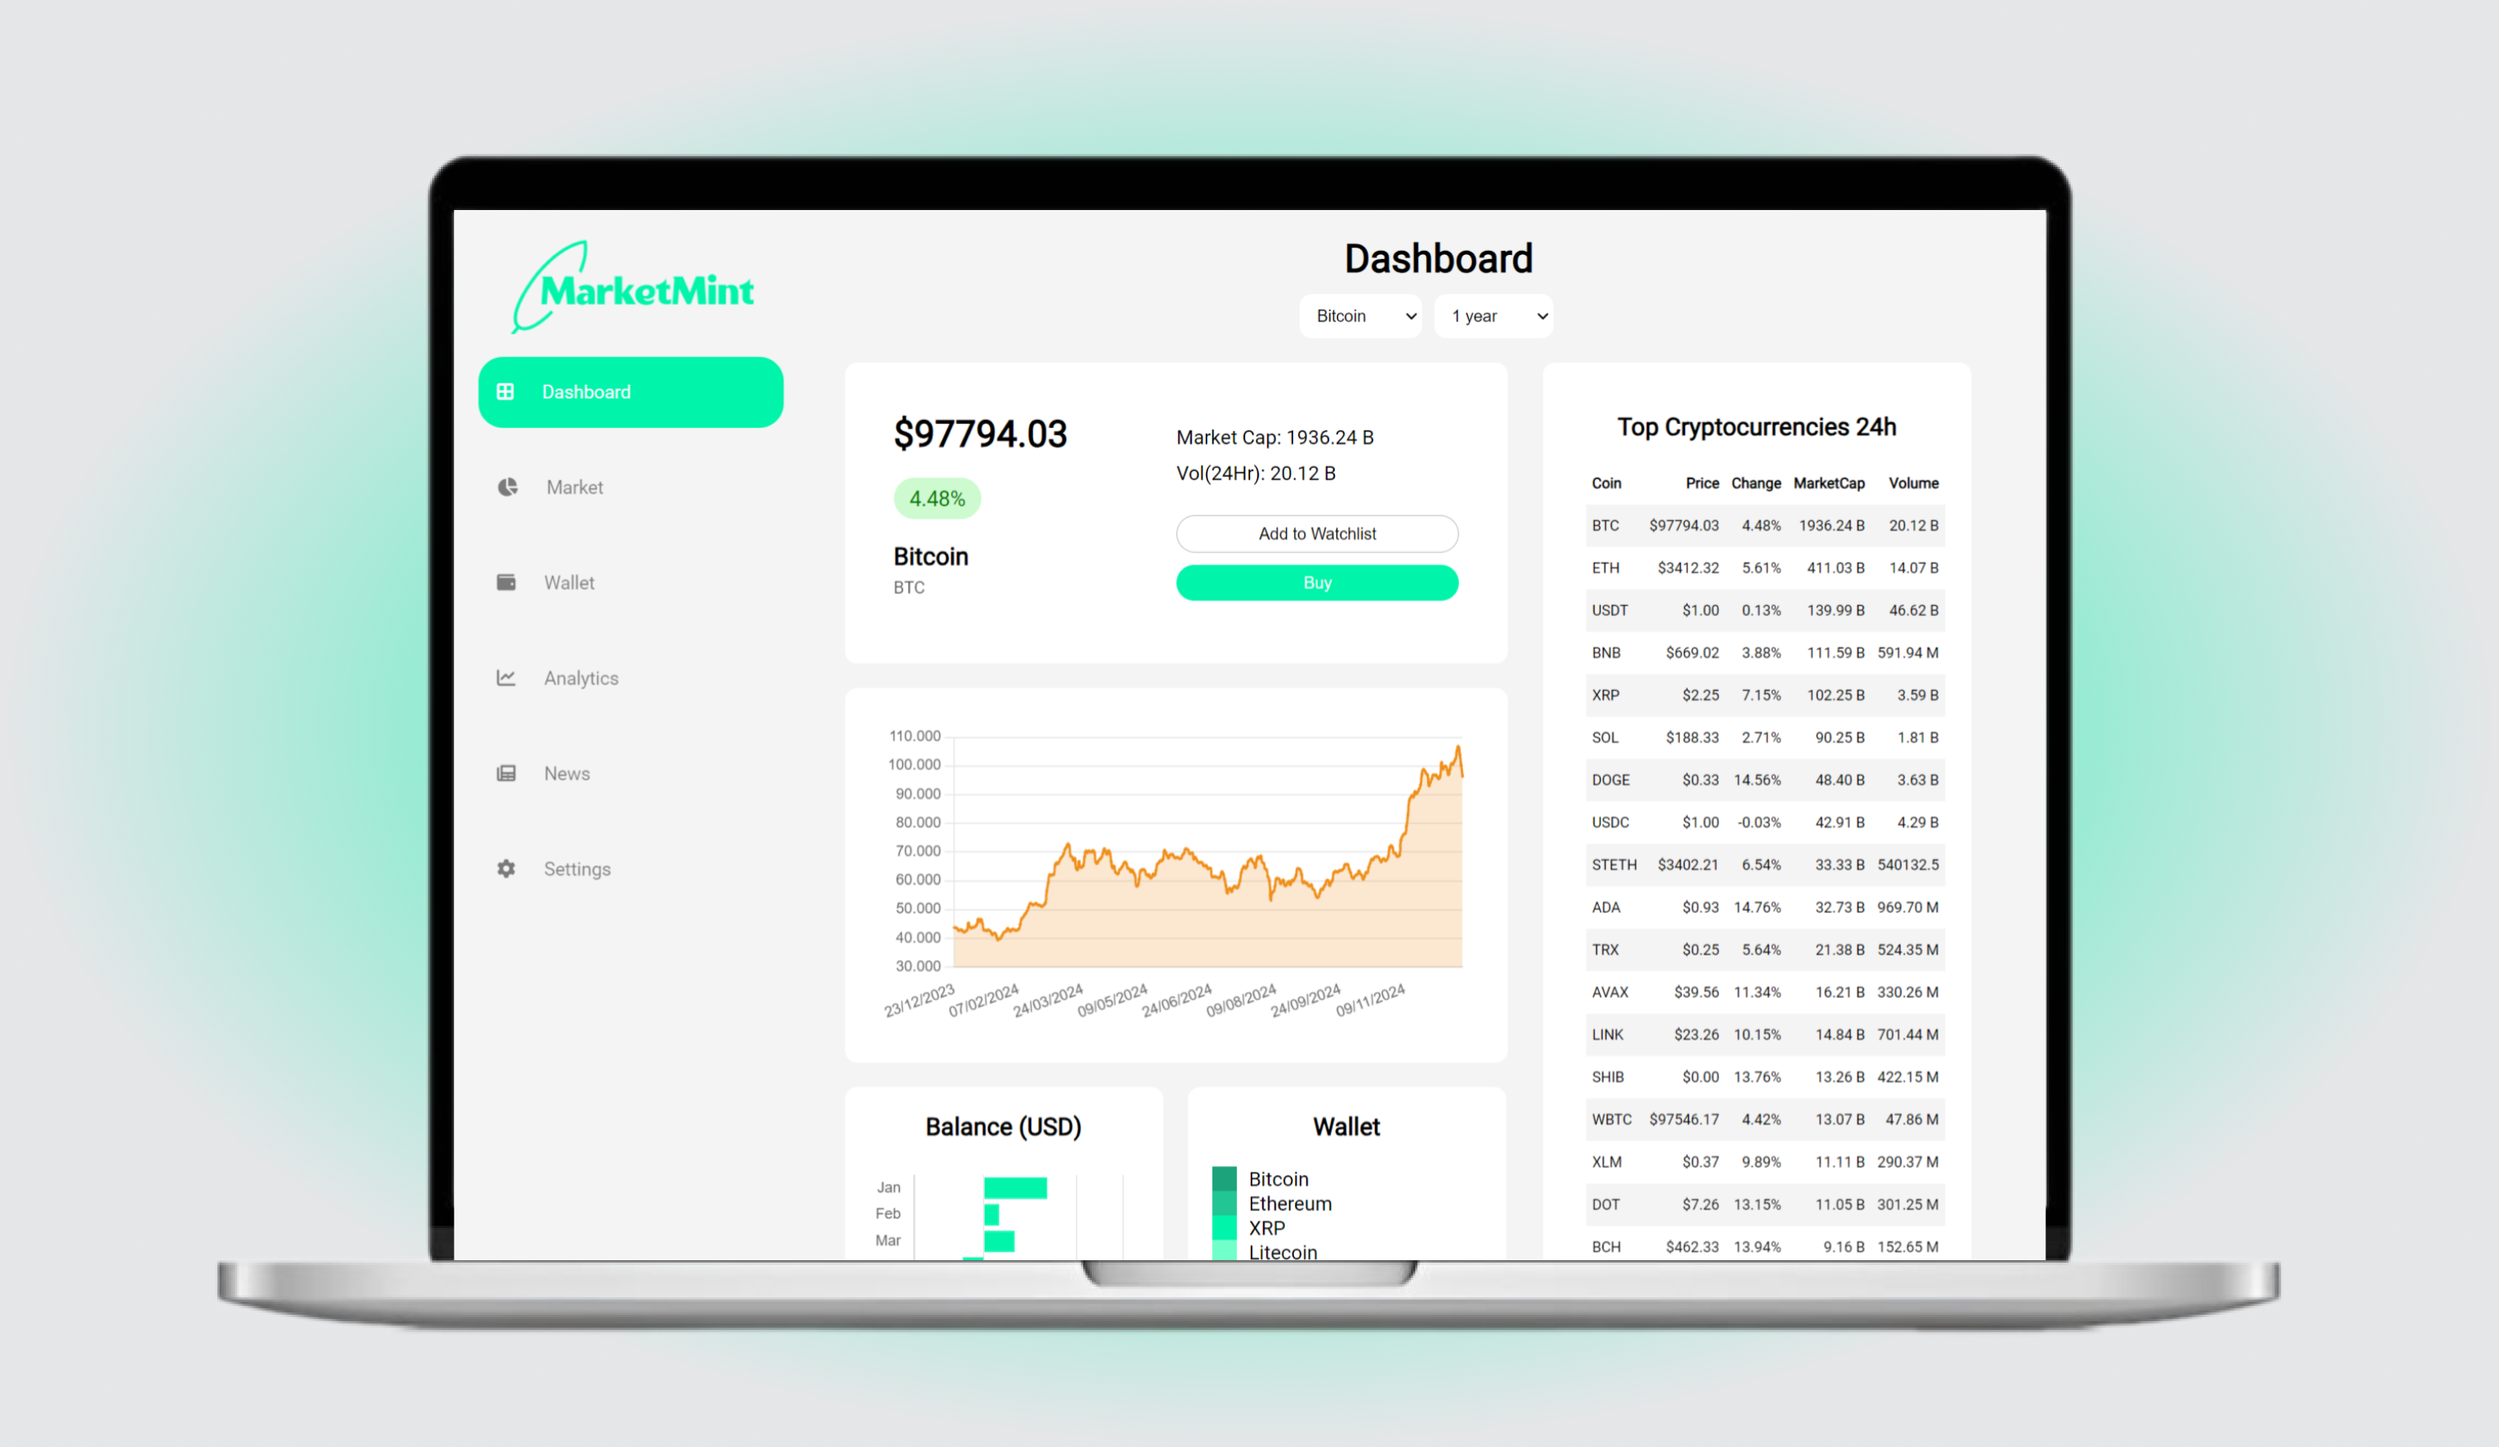
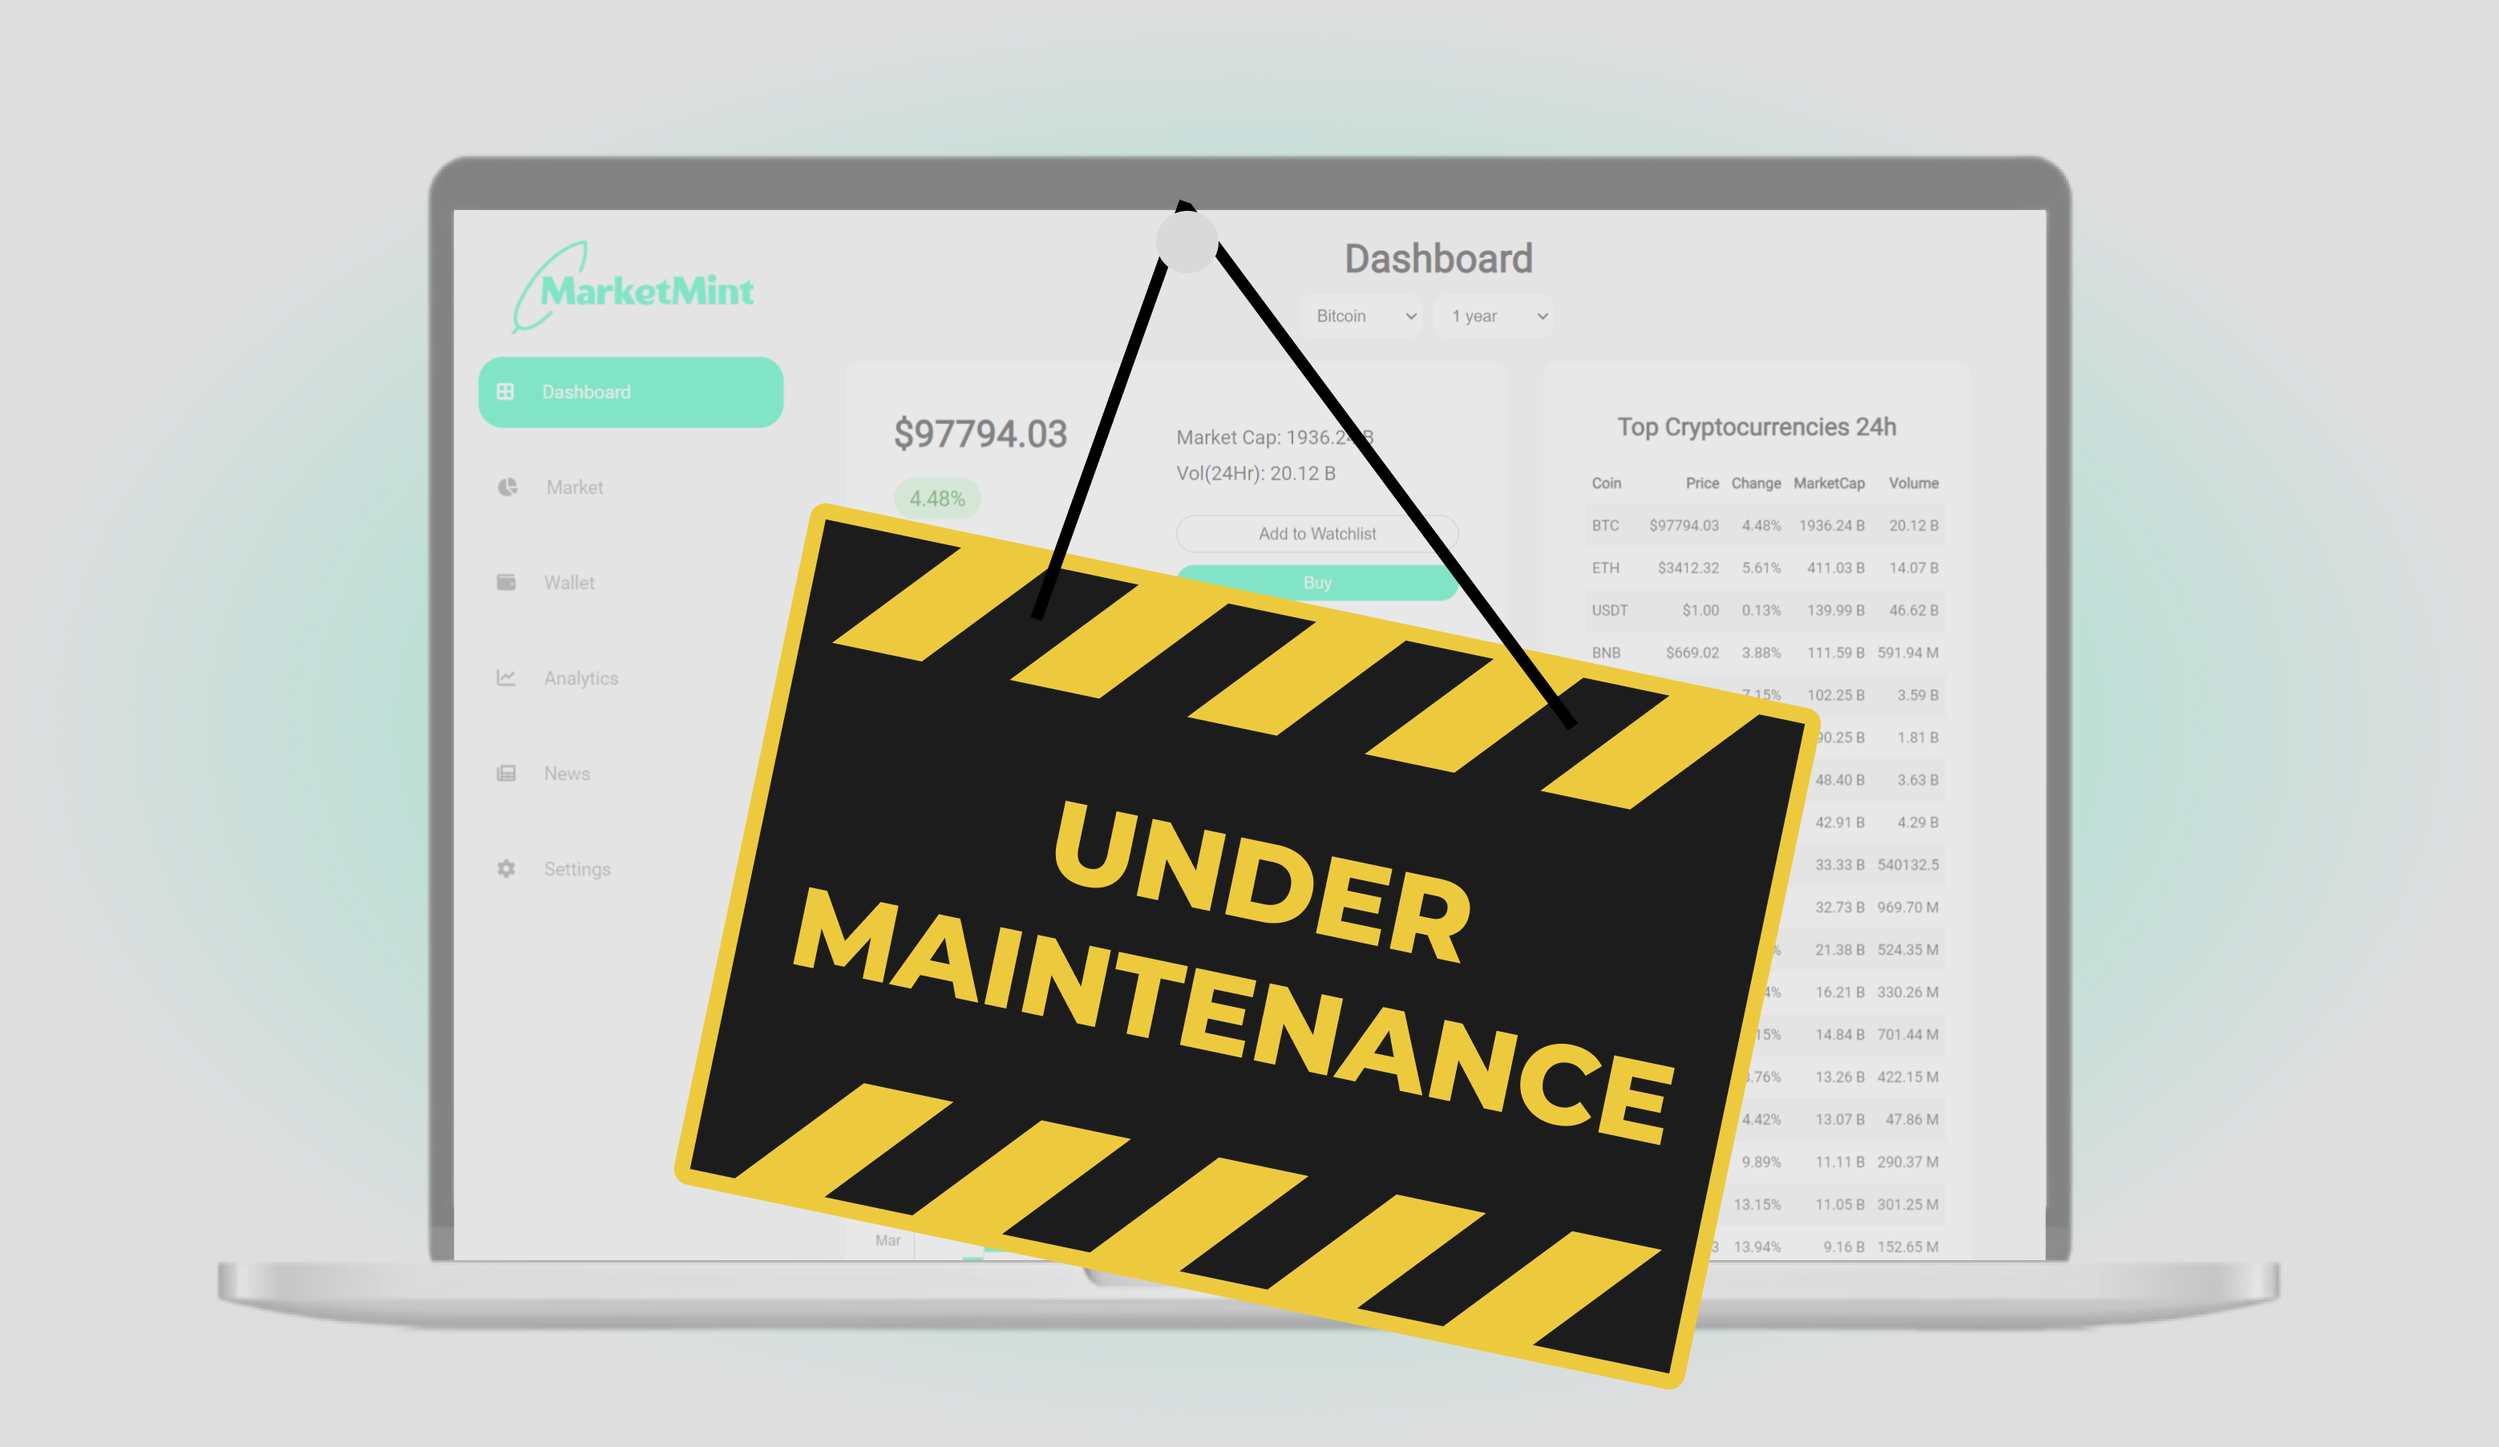
Put marketmint under maintenance

diff --git a/portfolio.html b/portfolio.html
@@ -75,7 +75,7 @@
                         <img src="project_banners/banner-statpilot.png" alt="statpilot web app">
                         <div class="text2">
                             <h4>StatPilot</h4>
-                            <p>Interactive web application for statistical data analysis, machine learning modeling, and model explainability</p>
+                            <p>Web app interattiva per analisi statistica dei dati, addestramento di modelli di machine learning, e spiegazione dei modelli</p>
                         </div>
                         <div class="buttons">
                             <a href="https://statpilot.onrender.com/" class="btn orange" target="_blank">Vai al Progetto</a>
@@ -91,17 +91,6 @@
                         <div class="buttons">
                             <a href="https://blacklistedm3dia.com/it" class="btn orange" target="_blank">Vai al Sito</a>
                             <a href="readme/visual-readme_bm.html" target="_blank" class="readme"><i class="fa-solid fa-bookmark fa-sm" style="color: #271b46;"></i> <span>README</span></a>
-                        </div>
-                    </div>
-                    <div class="work">
-                        <img src="project_banners/banner-crypto.png" alt="cryptocurrency dashboard">
-                        <div class="text2">
-                            <h4>MarketMint Dashboard Criptovalute</h4>
-                            <p>Piattaforma dinamica per tracciare i trend delle criptovalute e insights del mercato in tempo reale</p>
-                        </div>
-                        <div class="buttons">
-                            <a href="https://marketmint.netlify.app/" class="btn orange" target="_blank">Vai al Progetto</a>
-                            <a href="readme/README_crypto.md" target="_blank" class="readme"><i class="fa-solid fa-bookmark fa-sm" style="color: #271b46;"></i> <span>README</span></a>
                         </div>
                     </div>
                     <div class="work">
@@ -168,6 +157,17 @@
                         <div class="buttons">
                             <a href="https://savetheshark.netlify.app/" class="btn orange" target="_blank">Vai al Progetto</a>
                             <a href="readme/README_sts.md" target="_blank" class="readme"><i class="fa-solid fa-bookmark fa-sm" style="color: #271b46;"></i> <span>README</span></a>
+                        </div>
+                    </div>
+                    <div class="work">
+                        <img src="project_banners/banner-crypto.png" alt="cryptocurrency dashboard">
+                        <div class="text2">
+                            <h4>MarketMint Dashboard Criptovalute </h4>
+                            <p>Piattaforma dinamica per tracciare i trend delle criptovalute e insights del mercato in tempo reale (in manutenzione)</p>
+                        </div>
+                        <div class="buttons">
+                            <a href="#" class="btn orange" target="_blank">Vai al Progetto</a>
+                            <a href="readme/README_crypto.md" target="_blank" class="readme"><i class="fa-solid fa-bookmark fa-sm" style="color: #271b46;"></i> <span>README</span></a>
                         </div>
                     </div>
                 </div>

diff --git a/portfolio-en.html b/portfolio-en.html
@@ -96,17 +96,6 @@
                             </div>
                         </div>
                         <div class="work">
-                            <img src="project_banners/banner-crypto.png" alt="cryptocurrency dashboard">
-                            <div class="text2">
-                                <h4>MarketMint Cryptocurrency Dashboard</h4>
-                                <p>Dynamic platform for tracking cryptocurrency trends and market insights in real time</p>
-                            </div>
-                            <div class="buttons">
-                                <a href="https://marketmint.netlify.app/" class="btn orange" target="_blank">View Project</a>
-                                <a href="readme/README_crypto.md" target="_blank" class="readme"><i class="fa-solid fa-bookmark fa-sm" style="color: #271b46;"></i> <span>README</span></a>
-                            </div>
-                        </div>
-                        <div class="work">
                             <img src="project_banners/banner-isteroscopia.png" alt="isteroscopia">
                             <div class="text2">
                                 <h4>Antonio Accardi Isteroscopia</h4>
@@ -170,6 +159,17 @@
                             <div class="buttons">
                                 <a href="https://savetheshark.netlify.app/" class="btn orange" target="_blank">View Project</a>
                                 <a href="readme/README_sts.md" target="_blank" class="readme"><i class="fa-solid fa-bookmark fa-sm" style="color: #271b46;"></i> <span>README</span></a>
+                            </div>
+                        </div>
+                        <div class="work">
+                            <img src="project_banners/banner-crypto.png" alt="cryptocurrency dashboard">
+                            <div class="text2">
+                                <h4>MarketMint Cryptocurrency Dashboard</h4>
+                                <p>Dynamic platform for tracking cryptocurrency trends and market insights in real time (under mainteinance)</p>
+                            </div>
+                            <div class="buttons">
+                                <a href="#" class="btn orange" target="_blank">View Project</a>
+                                <a href="readme/README_crypto.md" target="_blank" class="readme"><i class="fa-solid fa-bookmark fa-sm" style="color: #271b46;"></i> <span>README</span></a>
                             </div>
                         </div>
                     </div>

diff --git a/index.html b/index.html
@@ -142,7 +142,7 @@
                             <img src="project_banners/banner-statpilot.png" alt="statpilot web app">
                             <div class="text2">
                                 <h4>StatPilot</h4>
-                                <p>Interactive web application for statistical data analysis, machine learning modeling, and model explainability</p>
+                                <p>Web app interattiva per analisi statistica dei dati, addestramento di modelli di machine learning, e spiegazione dei modelli</p>
                             </div>
                             <div class="buttons">
                                 <a href="https://statpilot.onrender.com/" class="btn orange" target="_blank">Vai al Progetto</a>
